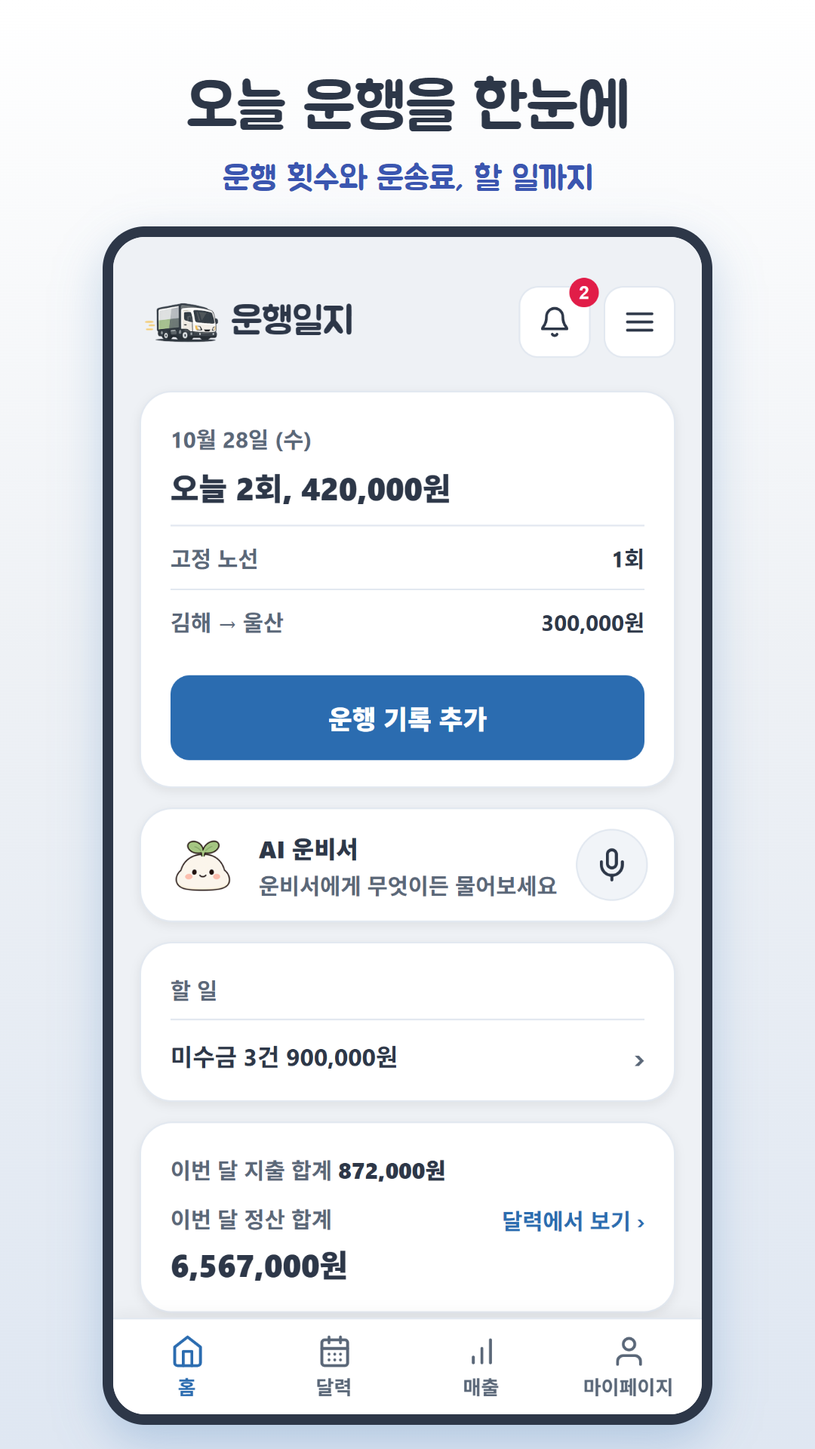
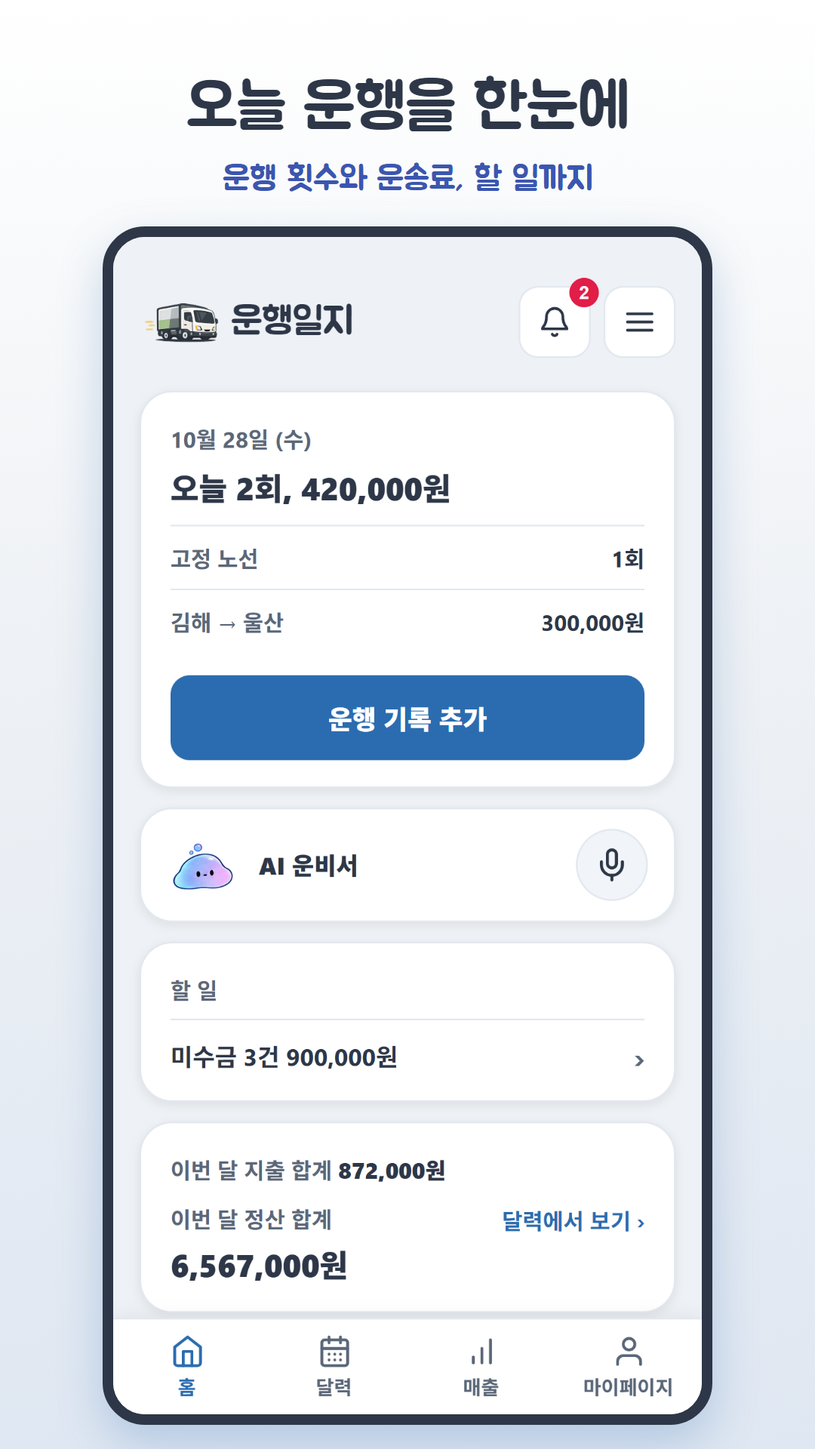
설정 "운비서" 하나로 홈 카드까지 끄기 완료 [x] — 착수지시서, 로드맵·STATUS 기록, 스토어 스크린샷 갱신

Changed region(s): [[0.2139, 0.5625, 0.6722, 0.625]]

diff --git a/docs/report.md b/docs/report.md
@@ -1,208 +1,68 @@
 # docs/report.md — 현재 슬라이스 착수지시서
 
-Capacitor C-13: drivelog-docs `3697e48`. Capacitor C-11: drivelog-docs `192d243`. Capacitor C-9·C-10: drivelog-docs `44e5fe4`. Capacitor C-8: drivelog-docs `c16db24`. Capacitor C-7: drivelog-docs `9445c8c`. Capacitor C-6: drivelog-docs `dc3e2a3`. Capacitor C-5: drivelog-docs `748c252`. Capacitor C-4: drivelog-docs `6b285d6`. Capacitor C-3-B: drivelog-docs `d8707c0`. Capacitor C-3-A: drivelog-docs `5cd80f0`. Capacitor C-2: drivelog-docs `056101f`. Capacitor C-1: drivelog-docs `d83dc32`. 운비서 그림: drivelog-docs `662f181`. 달력·매출 보던 달 기억: drivelog-docs `d7939c5`. 운비서 하루 횟수 B: drivelog-docs `4144794`. 운비서 하루 횟수 A: drivelog-docs `dd878a8`. 기사 차량 최대 3대 제한: drivelog-docs `3589174`. 운송료 부가세 줄 정리: drivelog-docs `4c419ae`. 연동·미연동 기사 안내: drivelog-docs `6379d80`. 운비서 카드 정리 B: drivelog-docs `4af30bc`. 운비서 카드 정리 A: drivelog-docs `855d2d8`. 말풍선 줄바꿈: drivelog-docs `7af5729`. 부가세 두 줄: drivelog-docs `10f1b7e`. 줄바꿈: drivelog-docs `a5b10a1`. 11-D-3: drivelog-docs `1e6591f`. 11-D-2: drivelog-docs `db31525`. 11-D-1: drivelog-docs `d719b80`. 11-B: drivelog-docs `a673fcc`. 11-C: drivelog-docs `d091df2`. 11-A: drivelog-docs `f112cca`. 41-B-2: drivelog-docs `86bde91`. 옛 이름 주석: drivelog-docs `75f2d98`. 41-B-1: drivelog-docs `c35b352`. 149-C-2: drivelog-docs `c269e0b`. 149-C-1: drivelog-docs `62251ca`. 149-B: drivelog-docs `0914214`. 149-A: drivelog-docs `38ce614`. 123-D: drivelog-docs `f47d26d`. 123-C: drivelog-docs `752a9d8`. 123-B: drivelog-docs `48208b9`. 123-A: drivelog-docs `74c5ef3`. 150-B: drivelog-docs `693140b`. 150-A: drivelog-docs `9b8eb01`. 106: drivelog-docs `72a93ed`. 124-B-2: drivelog-docs `abceece`. 124-B-1: drivelog-docs `5c354fd`. 124-A: drivelog-docs `022a710`. 121-B: drivelog-docs `0aa4357`. 긴 주석 줄이기: drivelog-docs `59ddc9d`. 121-A: drivelog-docs `1590ef7`. 120-D: drivelog-docs `2ce5170`. 120-C: drivelog-docs `ae914c9`. 120-B: drivelog-docs `503a3d3`. 120-A: drivelog-docs `81f927a`. 119: drivelog-docs `4ef51fa`. 147: drivelog-docs `db47a3b`. 내역서 산재 빼기: drivelog-docs `6531e7b`. 143: drivelog-docs `a4f4738`. 144: drivelog-docs `a87a1b4`. 146: drivelog-docs `207f26c`. 145: drivelog-docs `7bd1146`. 141: drivelog-docs `397513b`. 104: drivelog-docs `ec18974`. 142: drivelog-docs `84fa347`. 148: drivelog-docs `d5dec47`. 138-B: drivelog-docs `8b59d03`. 138-A: drivelog-docs `dd2c4a4`. 140: drivelog-docs `e861ea4`. 139: drivelog-docs `846327e`. 137: drivelog-docs `49613a4`. 136: drivelog-docs `e01b338`. 135-B: drivelog-docs `b15f2f8`. 135-A: drivelog-docs `56ca240`. 134: drivelog-docs `baee1ea`. 133: drivelog-docs `e049969`. 132-B: drivelog-docs `e3b7b60`. 132-A: drivelog-docs `0d32ec4`. 131-B: drivelog-docs `bac091a`. 131-A: drivelog-docs `448deb1`. 130: drivelog-docs `83e93be`. 129-B: drivelog-docs `fc2b077`. 129-A: drivelog-docs `867b653`. 128: drivelog-docs `9e32174`. 127: drivelog-docs `e743872`. 118: drivelog-docs `7cf86e3`. 116: drivelog-docs `8cade9e`. 115: drivelog-docs `6539d2d`. 122: drivelog-docs `48f420c`. 126: drivelog-docs `bfd19f7`. 117: drivelog-docs `8cbdca5`. 125: drivelog-docs `d48cac8`. 114: drivelog-docs `5f55ee1`. 34-C: drivelog-docs `11ea476`. 34-B: drivelog-docs `a54be26`. 34-A: drivelog-docs `58331f0`. 113-D: drivelog-docs `0bcb19a`. 113-C: drivelog-docs `afa3f5e`. 113-B: drivelog-docs `1c95e76`. 113-A: drivelog-docs `25069f9`. 운비서 버튼 설정: drivelog-docs `d65beaf`. 운비서·+ 버튼 겹침: drivelog-docs `6fe917d`. 로그인 화면 개편 B: drivelog-docs `ae6d734`. 로그인 화면 개편 A 수정: drivelog-docs `c712994`. 로그인 화면 개편 A: drivelog-docs `d5bc380`. 문구 정리 5-B: drivelog-docs `466871a`. 문구 정리 5-A: drivelog-docs `f4a3ee8`. UI 위계화 E-2: drivelog-docs `c03dba5`. UI 위계화 E-1: drivelog-docs `4b28cf6`. UI 위계화 D-1: drivelog-docs `acff677`. UI 위계화 C-2: drivelog-docs `182b8e4`. UI 위계화 C-1: drivelog-docs `c19c294`. UI 위계화 B: drivelog-docs `d43886f`. UI 위계화 A: drivelog-docs `ba4692a`. 112: drivelog-docs `bed3293`. 24-J-2: drivelog-docs `2659849`. 24-J-1: drivelog-docs `8e025d8`. 24-I-2: drivelog-docs `e79562a`. 24-I-1: drivelog-docs `cdeb64d`. 24-H-3: drivelog-docs `57ccb7e`. 24-H-2: drivelog-docs `9ffec36`. 24-H-1: drivelog-docs `09323b9`. 24-G-2: drivelog-docs `f606644`. 24-G-1: drivelog-docs `c0f52a6`. 24-D3: drivelog-docs `9dc244b`. 111: drivelog-docs `46dc63b`. 24-E2: drivelog-docs `db74acc`. 24-F-2: drivelog-docs `c23630f`. 24-F-1: drivelog-docs `8c1ddfb`. 24-E: drivelog-docs `f8c7a9a`. 110-B: drivelog-docs `acfa71b`. 110-A: drivelog-docs `b57e0b1`. 109-B: drivelog-docs `e200af2`. 109-A: drivelog-docs `a5b3d61`. 108번: drivelog-docs `6bfaa09`. 105번: 105-B drivelog-docs `705c4ac`, 105-A `aa5c8b9`. 24번(AI 비서) 지시서·기록: 24-D-2 drivelog-docs `44a068c`, 24-D-1 `ac195e4`, 24-C-2 `455cd19`, 24-C-1 `a26815e`, 24-A2 `2ea514e`, 24-B-3-B `0548640`, 24-B-3-A `a0f2b64`, 24-B-2 `c115e2b`, 24-B-1 `18646c9`, 24-A `1dde103`. 23번: 23-D `a6ee944`, 23-C `aedd08d`, 23-B `4e692ce`, 23-A `ac81245`.
+운비서 그림 움직이기: drivelog-docs `5e56504`. Capacitor C-13: drivelog-docs `3697e48`. Capacitor C-11: drivelog-docs `192d243`. Capacitor C-9·C-10: drivelog-docs `44e5fe4`. Capacitor C-8: drivelog-docs `c16db24`. Capacitor C-7: drivelog-docs `9445c8c`. Capacitor C-6: drivelog-docs `dc3e2a3`. Capacitor C-5: drivelog-docs `748c252`. Capacitor C-4: drivelog-docs `6b285d6`. Capacitor C-3-B: drivelog-docs `d8707c0`. Capacitor C-3-A: drivelog-docs `5cd80f0`. Capacitor C-2: drivelog-docs `056101f`. Capacitor C-1: drivelog-docs `d83dc32`. 운비서 그림: drivelog-docs `662f181`. 달력·매출 보던 달 기억: drivelog-docs `d7939c5`. 운비서 하루 횟수 B: drivelog-docs `4144794`. 운비서 하루 횟수 A: drivelog-docs `dd878a8`. 기사 차량 최대 3대 제한: drivelog-docs `3589174`. 운송료 부가세 줄 정리: drivelog-docs `4c419ae`. 연동·미연동 기사 안내: drivelog-docs `6379d80`. 운비서 카드 정리 B: drivelog-docs `4af30bc`. 운비서 카드 정리 A: drivelog-docs `855d2d8`. 말풍선 줄바꿈: drivelog-docs `7af5729`. 부가세 두 줄: drivelog-docs `10f1b7e`. 줄바꿈: drivelog-docs `a5b10a1`. 11-D-3: drivelog-docs `1e6591f`. 11-D-2: drivelog-docs `db31525`. 11-D-1: drivelog-docs `d719b80`. 11-B: drivelog-docs `a673fcc`. 11-C: drivelog-docs `d091df2`. 11-A: drivelog-docs `f112cca`. 41-B-2: drivelog-docs `86bde91`. 옛 이름 주석: drivelog-docs `75f2d98`. 41-B-1: drivelog-docs `c35b352`. 149-C-2: drivelog-docs `c269e0b`. 149-C-1: drivelog-docs `62251ca`. 149-B: drivelog-docs `0914214`. 149-A: drivelog-docs `38ce614`. 123-D: drivelog-docs `f47d26d`. 123-C: drivelog-docs `752a9d8`. 123-B: drivelog-docs `48208b9`. 123-A: drivelog-docs `74c5ef3`. 150-B: drivelog-docs `693140b`. 150-A: drivelog-docs `9b8eb01`. 106: drivelog-docs `72a93ed`. 124-B-2: drivelog-docs `abceece`. 124-B-1: drivelog-docs `5c354fd`. 124-A: drivelog-docs `022a710`. 121-B: drivelog-docs `0aa4357`. 긴 주석 줄이기: drivelog-docs `59ddc9d`. 121-A: drivelog-docs `1590ef7`. 120-D: drivelog-docs `2ce5170`. 120-C: drivelog-docs `ae914c9`. 120-B: drivelog-docs `503a3d3`. 120-A: drivelog-docs `81f927a`. 119: drivelog-docs `4ef51fa`. 147: drivelog-docs `db47a3b`. 내역서 산재 빼기: drivelog-docs `6531e7b`. 143: drivelog-docs `a4f4738`. 144: drivelog-docs `a87a1b4`. 146: drivelog-docs `207f26c`. 145: drivelog-docs `7bd1146`. 141: drivelog-docs `397513b`. 104: drivelog-docs `ec18974`. 142: drivelog-docs `84fa347`. 148: drivelog-docs `d5dec47`. 138-B: drivelog-docs `8b59d03`. 138-A: drivelog-docs `dd2c4a4`. 140: drivelog-docs `e861ea4`. 139: drivelog-docs `846327e`. 137: drivelog-docs `49613a4`. 136: drivelog-docs `e01b338`. 135-B: drivelog-docs `b15f2f8`. 135-A: drivelog-docs `56ca240`. 134: drivelog-docs `baee1ea`. 133: drivelog-docs `e049969`. 132-B: drivelog-docs `e3b7b60`. 132-A: drivelog-docs `0d32ec4`. 131-B: drivelog-docs `bac091a`. 131-A: drivelog-docs `448deb1`. 130: drivelog-docs `83e93be`. 129-B: drivelog-docs `fc2b077`. 129-A: drivelog-docs `867b653`. 128: drivelog-docs `9e32174`. 127: drivelog-docs `e743872`. 118: drivelog-docs `7cf86e3`. 116: drivelog-docs `8cade9e`. 115: drivelog-docs `6539d2d`. 122: drivelog-docs `48f420c`. 126: drivelog-docs `bfd19f7`. 117: drivelog-docs `8cbdca5`. 125: drivelog-docs `d48cac8`. 114: drivelog-docs `5f55ee1`. 34-C: drivelog-docs `11ea476`. 34-B: drivelog-docs `a54be26`. 34-A: drivelog-docs `58331f0`. 113-D: drivelog-docs `0bcb19a`. 113-C: drivelog-docs `afa3f5e`. 113-B: drivelog-docs `1c95e76`. 113-A: drivelog-docs `25069f9`. 운비서 버튼 설정: drivelog-docs `d65beaf`. 운비서·+ 버튼 겹침: drivelog-docs `6fe917d`. 로그인 화면 개편 B: drivelog-docs `ae6d734`. 로그인 화면 개편 A 수정: drivelog-docs `c712994`. 로그인 화면 개편 A: drivelog-docs `d5bc380`. 문구 정리 5-B: drivelog-docs `466871a`. 문구 정리 5-A: drivelog-docs `f4a3ee8`. UI 위계화 E-2: drivelog-docs `c03dba5`. UI 위계화 E-1: drivelog-docs `4b28cf6`. UI 위계화 D-1: drivelog-docs `acff677`. UI 위계화 C-2: drivelog-docs `182b8e4`. UI 위계화 C-1: drivelog-docs `c19c294`. UI 위계화 B: drivelog-docs `d43886f`. UI 위계화 A: drivelog-docs `ba4692a`. 112: drivelog-docs `bed3293`. 24-J-2: drivelog-docs `2659849`. 24-J-1: drivelog-docs `8e025d8`. 24-I-2: drivelog-docs `e79562a`. 24-I-1: drivelog-docs `cdeb64d`. 24-H-3: drivelog-docs `57ccb7e`. 24-H-2: drivelog-docs `9ffec36`. 24-H-1: drivelog-docs `09323b9`. 24-G-2: drivelog-docs `f606644`. 24-G-1: drivelog-docs `c0f52a6`. 24-D3: drivelog-docs `9dc244b`. 111: drivelog-docs `46dc63b`. 24-E2: drivelog-docs `db74acc`. 24-F-2: drivelog-docs `c23630f`. 24-F-1: drivelog-docs `8c1ddfb`. 24-E: drivelog-docs `f8c7a9a`. 110-B: drivelog-docs `acfa71b`. 110-A: drivelog-docs `b57e0b1`. 109-B: drivelog-docs `e200af2`. 109-A: drivelog-docs `a5b3d61`. 108번: drivelog-docs `6bfaa09`. 105번: 105-B drivelog-docs `705c4ac`, 105-A `aa5c8b9`. 24번(AI 비서) 지시서·기록: 24-D-2 drivelog-docs `44a068c`, 24-D-1 `ac195e4`, 24-C-2 `455cd19`, 24-C-1 `a26815e`, 24-A2 `2ea514e`, 24-B-3-B `0548640`, 24-B-3-A `a0f2b64`, 24-B-2 `c115e2b`, 24-B-1 `18646c9`, 24-A `1dde103`. 23번: 23-D `a6ee944`, 23-C `aedd08d`, 23-B `4e692ce`, 23-A `ac81245`.
 
 ---
 
 
-## 운비서 말할 때 움직이기 `[x]`
+## 설정 "운비서" 하나로 홈 카드까지 끄기 `[x]`
 
-보리 요청: `[확인: 2026-11-07 보리 — 시안 "캐디"(캐릭터 디자인) 1.png·3.png, "1번은 너무 정적", "모션중에 6가지 그거만 말할때마다 반복", "사라짐은 사용하지말구", 고르기 "1,좋아 2,가 3.글로 답할 때도 한두 번만 움직이기"]`. 앞 슬라이스 "운비서 그림 바꾸기"(drivelog-docs `662f181`)의 병아리를 새 젤리 캐릭터로 바꾼다. 이름 "운비서"는 그대로.
+보리 요청(2026-11-07): 앱 설정의 "운비서 버튼" 이름을 "운비서"로 바꾸고, 끄면 홈 화면의 운비서 카드까지 전부 꺼지게. 앞 작업 "운비서 버튼 설정"(drivelog-docs `d65beaf`)을 넓히는 것.
 
 ### 쉬운 요약
-- 운비서 그림을 시안의 젤리 캐릭터로 바꾸고, 운비서가 소리 내 말하는 동안 짧은 동작을 반복한다. 글로만 답할 때는 두 번만 움직이고 멈춘다.
-- 동작은 6가지(숨쉬기·깜빡임·웃음·움직임 가·움직임 나·별)를 말할 때마다 하나씩 차례로 쓴다. 찡그림·사라짐 줄은 쓰지 않는다.
-- 쉴 때는 멈춘 그림 한 장. 휴대폰에서 "움직임 줄이기"를 켠 사람에게는 움직이지 않는다.
+- 설정의 스위치 이름을 "운비서"로 바꾼다.
+- 이 스위치를 끄면 다른 화면의 떠 있는 운비서 버튼뿐 아니라 홈 화면의 "AI 운비서" 카드도 사라진다. 다시 켜면 둘 다 돌아온다.
+- 예전에 꺼 둔 사람은 그대로 꺼진 상태로 이어진다(저장 이름을 그대로 쓰므로).
 
 ### 현재 상태 (코드 확인)
-- 그림 `public/images/assistant_unbiseo.png` 한 장, 쓰는 곳 3군데: 홈 카드 `HomeAssistantBar.jsx:28`, 떠 있는 버튼 `UnbiseoDock.tsx:50`, 펼친 카드 `UnbiseoDock.tsx:61`(grep `assistant_unbiseo`).
-- 말하는 중인지는 이미 있음: `useSpeechOutput.ts`의 `speaking` → `useUnbiseoAssistant.ts:174`에서 `assistant.speaking`으로 나옴. 소리로 답하는 건 마이크로 물었을 때만(`useUnbiseoAssistant.ts:135`), 되묻기 질문도 소리로(`:85`).
-- 답은 `assistant.answer`, 기다리는 동안 `busy`가 참이고 "알아듣는 중…" 같은 임시 답이 들어감(`:101-109`).
-- 시험 `HomePage.test.js:380`이 홈 카드에 `assistant_unbiseo.png` 그림이 있는지 확인.
-- 시안 3.png(1536×1024): 8줄×8칸이지만 칸 위치가 고르지 않음(칸 사이 빈 줄을 재서 자름 — 세로 8칸·가로 8칸 모두 빈 틈으로 나뉨 확인). 몸은 살짝 비치는 젤리, 배경 투명.
+- 설정 스위치 글자는 "운비서 버튼", 로그인 계정의 메인 설정에만 보인다 — `AppSettingsPage.jsx:99-107`(`!logId && ownerKey !== 'guest'`).
+- 떠 있는 버튼은 끄면 이미 사라지고, 열린 카드를 접고 듣기도 멈춘다 — `UnbiseoDock.tsx:17-24`.
+- 홈 카드(`HomeAssistantBar.jsx`, `HomePage.jsx:77`)는 이 설정을 보지 않아 꺼도 그대로 보인다.
+- 저장 칸 설명이 "홈이 아닌 화면의 운비서 버튼"으로 되어 있다 — `financeTypes.ts:89`.
 
 ### 목표 상태 (기대 동작)
-1. 쉴 때는 1번 줄(숨쉬기) 첫 칸 그림이 3군데 모두에 보인다.
-2. 소리 내 말하기가 시작되면 6가지 중 다음 차례 동작을 그 말이 끝날 때까지 반복하고, 끝나면 멈춘 그림으로 돌아온다.
-3. 글로만 답이 오면(기다림이 끝나고 답이 바뀌면) 다음 차례 동작을 두 번 하고 멈춘다. 기다리는 중("알아듣는 중…")에는 움직이지 않는다.
-4. 차례는 1 숨쉬기 → 2 깜빡임 → 3 웃음 → 4 움직임 가 → 5 움직임 나 → 7 별 → 다시 1. 화면을 옮겨도 이어서 센다(앱을 다시 열면 처음부터).
-5. 한 동작은 8칸, 한 바퀴 약 0.8초.
-6. "움직임 줄이기"를 켠 휴대폰·컴퓨터에서는 늘 멈춘 그림.
-7. 밝은·어두운 화면 모두 테두리가 보인다.
+1. 앱 설정 스위치 글자가 "운비서"다(스위치 자리·처음 켜짐·저장 이름 `unbiseoDockOn`은 그대로).
+2. 로그인 계정에서 끄면 홈 화면의 "AI 운비서" 카드가 보이지 않는다. 홈의 나머지 카드(오늘·할 일·이번 달) 순서는 그대로다.
+3. 카드가 듣는 중에 꺼지면 듣기를 멈춘다(떠 있는 버튼과 같은 처리).
+4. 다시 켜면 홈 카드가 접힌 상태로 다시 보인다.
+5. 떠 있는 버튼의 동작은 지금과 같다.
+6. 비회원(guest)은 스위치가 없으므로 홈 카드가 지금처럼 보이고 "로그인하면 쓸 수 있습니다." 안내가 그대로다.
 
 ### 건드릴 파일
-- `public/images/assistant_unbiseo.png` — 멈춘 그림(1번 줄 첫 칸)으로 바꿈, 이름 그대로.
-- `public/images/unbiseo-motion-1.webp` … `-6.webp` 새로 6개 — 동작마다 8칸을 가로로 이어 붙인 그림. 칸은 아래 가운데에 맞춰 같은 크기로 자름. 자르는 것은 한 번만 하는 작업이라 스크립트는 저장소에 넣지 않음.
-- `src/features/home/ui/UnbiseoAvatar.tsx` 새로 — 멈춘 그림(`img`) 또는 움직이는 그림을 그리는 작은 부품.
-- `src/features/home/hooks/useUnbiseoMotion.ts` 새로 — `speaking`·`answer`·`busy`를 보고 지금 동작 번호와 횟수(계속/두 번)를 정함. 차례 수는 파일 안 변수 하나.
-- `src/features/home/ui/unbiseo-avatar.css` 새로 — 8칸 넘기기, 움직임 줄이기 설정이면 끔.
-- `HomeAssistantBar.jsx`·`UnbiseoDock.tsx` — `img` 3군데를 `UnbiseoAvatar`로.
-- 시험 `useUnbiseoMotion.test.js` 새로.
-- 주석 최종 문구:
-  - `UnbiseoAvatar.tsx` 첫 줄: `// 운비서 그림 — 쉴 때는 멈춘 그림, 말하는 동안은 동작 그림을 넘긴다.`
-  - `useUnbiseoMotion.ts` 첫 줄: `// 운비서 동작 고르기 — 소리 내 말하는 동안은 반복, 글로만 답하면 두 번. 동작은 차례로 바꾼다.`
-  - css: `/* 움직임 줄이기를 켠 기기에서는 멈춘 그림만. */`
+- `react-app/src/features/settings/ui/AppSettingsPage.jsx` — 스위치 글자 "운비서 버튼" → "운비서".
+- `react-app/src/features/home/ui/HomeAssistantBar.jsx` — 계정 설정을 읽어, 로그인 계정에서 꺼져 있으면 그리지 않고 듣기를 멈춤.
+  - 넣을 주석: `// 설정에서 운비서를 끄면 홈 카드도 그리지 않는다 — 듣던 중이면 멈춘다. 비회원은 끌 수 없어 늘 보인다.`
+- `react-app/src/domain/financeTypes.ts` — 설명 주석을 `// 운비서 켜기(홈 카드와 다른 화면의 버튼, 기본 켜짐)`로.
+- `react-app/src/features/settings/ui/AppSettingsPage.unbiseoDock.test.js` — 첫 줄 설명과 글자 확인을 "운비서"로.
+- `react-app/src/features/home/ui/HomePage.test.js` — 새 테스트: 로그인 계정에서 끄면 운비서 카드가 없고 나머지 카드 순서는 그대로, 켜면 다시 보임.
 
 ### 안 건드릴 것
-- 운비서가 알아듣고 답하는 방식·목소리(`useUnbiseoAssistant.ts`·`useSpeechOutput.ts`) — 값만 읽음.
-- 이름 "AI 운비서", 카드 모양·크기, 떠 있는 버튼 위치.
-- 사라짐(8번 줄)·찡그림(6번 줄) 그림 — 쓰지 않음.
-- 서비스 워커 `public/sw.js` — 그림을 저장해 두지 않아 그대로(앞 슬라이스와 같음).
+- `UnbiseoDock.tsx` — 이미 끄면 사라짐(`src/app/shell/UnbiseoDock.test.js:136` 테스트 통과 중).
+- 저장 이름 `unbiseoDockOn`, 기본값(`practiceSettings.ts:41,88`), 저장 형식 검사(`persistDomainSchema.ts:47`) — 이름을 바꾸면 꺼 둔 사람 값이 사라지므로 그대로.
+- 기사 차량 일지 설정 화면 — 지금도 스위치가 없다(`AppSettingsPage.unbiseoDock.test.js`의 숨김 테스트).
+- 코드 안 다른 "운비서 버튼" 주석(`assistantCallState.js:119` 등) — 떠 있는 버튼이나 카드 안 버튼을 가리키는 말이라 맞다.
 
 ### 검증
-- 새 시험: 쉴 때 멈춘 그림, `speaking`이 참이면 첫 동작·계속 반복, 끝나면 멈춘 그림, 글 답이 오면 다음 동작·두 번, 기다리는 중에는 안 움직임, 차례가 1·2·3·4·5·7로 돌아감.
-- revert-check, `npm test`·lint·typecheck·build, CI 초록.
-- 브라우저(개발 서버)에서 글로 물어 두 번 움직이는 것, 밝은·어두운 화면 확인. 칸을 맞춰 잘라도 시안 칸마다 위치가 조금씩 달라 떨려 보이면 보고 전에 다시 맞추고, 그래도 떨리면 그 동작을 빼는 안으로 보리에게 물음.
+- `npm test`, `npm run lint`, `npm run typecheck`, `npm run build` 모두 통과.
+- 새 홈 테스트는 고치기 전 코드에서 실패하는지 되돌려 확인(revert-check).
+- 브라우저: 로그인 상태로 설정에서 끄고 홈·다른 화면 둘 다 운비서가 없는지, 켜고 둘 다 돌아오는지 본다.
 
 ### 파일 길이
-- `HomeAssistantBar.jsx` 53 → 약 53, `UnbiseoDock.tsx` 89 → 약 89.
-- 새 `UnbiseoAvatar.tsx` 약 30, `useUnbiseoMotion.ts` 약 50, `unbiseo-avatar.css` 약 40, 시험 약 100.
-- 그림: 멈춘 그림 1장, 동작 6장(웹피, 합쳐 약 200KB 안쪽 목표).
+- `AppSettingsPage.jsx` 182 → 182줄.
+- `HomeAssistantBar.jsx` 51 → 약 62줄.
+- `financeTypes.ts` 줄 수 그대로.
+- `AppSettingsPage.unbiseoDock.test.js` 63 → 63줄.
+- `HomePage.test.js` 395 → 약 420줄(테스트 파일, 기존에도 200줄 넘음 — 테스트 파일은 제한 밖).
 
 ### 실패 시 처리
-- 새 저장 장치·재시도·대비 장치 없음(그림 표시만 바꿈). 동작 그림을 못 불러오면 브라우저가 빈칸으로 두는 대신 멈춘 그림이 아래에 깔려 보이게 함. 안 되면 수정 착수지시서.
+- 새 저장 장치·재시도·대비 장치를 만들지 않는다. 검사가 실패하면 원인을 적고 수정 계획을 다시 써서 승인받는다.
 
 ### 사용자 확인 방법
-- push·배포 뒤 휴대폰 앱(앱 파일 그대로)에서 홈 → 운비서 카드가 젤리 그림인지 본다.
-- 글로 "오늘 매출" 물어보기 → 답이 나올 때 그림이 두 번 움직이고 멈추면 성공.
-- 마이크로 물어보기 → 답을 읽는 동안 계속 움직이고, 다 읽으면 멈추면 성공. 한 번 더 물으면 다른 동작이면 성공.
-- 다른 화면의 떠 있는 운비서 버튼도 젤리 그림인지 본다.
+1. 앱(또는 getdrivelog.com)에 로그인 → 메뉴 → 앱 설정을 연다. 스위치 이름이 "운비서"인지 본다.
+2. 스위치를 끄고 홈으로 간다. "AI 운비서" 카드가 없으면 성공. 다른 화면(달력 등)에도 떠 있는 운비서가 없어야 한다.
+3. 다시 설정에서 켜고 홈으로 간다. 카드가 접힌 상태로 다시 보이면 성공.
 
 ### 진행 기록
-- 2026-11-07 착수 승인. react-app `a99210c`. 시험 2,001개(새 시험 5개)·lint·typecheck·build 통과. 새 시험은 새로 만든 파일을 시험하므로 고치기 전 코드에서는 실행 자체가 안 됨(revert-check 생략).
-- 지시서와 다른 점:
-  - 동작 그림이 아직 안 받아졌을 때 빈칸이 보이지 않게, 처음 그릴 때 6장을 미리 받아 둠. 못 받으면 멈춘 그림으로 돌아감.
-  - 움직이는 동안은 멈춘 그림을 감춤. 젤리가 비쳐서 두 장이 겹쳐 보이기 때문.
-  - 검사 도구가 "효과 안에서 상태 바꾸기"를 막아, 그리는 중에 동작을 정하고 센 수는 그린 뒤에 올림.
-- 그림: 시안 3.png의 칸 사이 빈 틈을 재서 자르고, 칸마다 몸 아래 가운데에 맞춤. 한 칸 120×96, 동작 6장 합쳐 약 197KB, 멈춘 그림 13KB.
-- 브라우저(개발 서버, 비회원 홈): 멈춘 그림이 홈 카드에 보임. 동작 6줄×8칸을 칸마다 멈춰 확대해 보니 칸이 정확히 넘어가고 떨림이 거의 없음. 밝은·어두운 화면 모두 테두리가 보임. 실제로 말할 때 움직이는 것은 로그인이 필요해 휴대폰에서 확인.
-- push(보리) 뒤 CI db-test·verify·deploy 초록(run 42341169108).
-- 보리 의견: 1번 동작(숨쉬기)의 첫째·둘째 칸 캐릭터가 마음에 안 듦 — 휴대폰에서 보고 결정.
-- 남은 것: 휴대폰 확인, 1번 동작 첫째·둘째 칸 처리 결정, 최종 `[x]`.
-
-### 수정 1 — 듣는 중·입력 중 동작, 동작 정리 `[~]` (수정 2로 바뀜)
-
-보리 요청(push 뒤 휴대폰 확인): `[확인: 2026-11-07 보리 — "사용자가 말하는중에 듣고잇을떄도 모션이없어 그걸 unbiseo-motion-2.webp이걸로", "unbiseo-motion-1.webp버리고", "unbiseo-motion-2.webp이걸 가만히잇을때 이거첫번째캐릭터로", "입력할때모션은 unbiseo-motion-5.webp", "unbiseo-motion-6.webp 이것도 버려", "픽셀단위로 위치좀 조정해 좀더 위로 하고 살짝 더 크기 키워", 입력 멈춤 "치기를 멈추고 1초가 지나면 멈추게 잡아"]`. 웹에서 안 바뀌어 보인 것은 사이트가 파일을 10분 동안 그대로 쓰게 하는 설정 때문(서버 파일은 새것 확인).
-
-#### 쉬운 요약
-- 운비서가 듣는 동안(사용자가 말하는 중) 깜빡임(2번)을 반복하고, 글 칸에 입력하는 동안 움직임 나(5번)를 반복한다.
-- 숨쉬기(1번)·별(6번)은 버리고, 쉴 때 그림은 깜빡임의 첫 칸으로 바꾼다.
-- 운비서가 말할 때·글로 답할 때는 남은 웃음(3번)·움직임 가(4번)를 차례로 쓴다.
-- 그림을 조금 키우고 위로 올린다.
-
-#### 현재 상태 (코드 확인)
-- `useUnbiseoMotion.ts`(42줄)는 `speaking`·`answer`·`busy`만 봄. 듣는 중(`speech.listening`, `useSpeechInput.ts:39`)과 입력(`assistant.text`, `HomeAssistantPanel.tsx:75-77`)은 보지 않음.
-- 마이크로 들은 말도 `setText(heard)` 뒤 바로 보내서 `busy`가 같이 참이 됨(`useUnbiseoAssistant.ts:73-76`·`:100`) — 입력으로 치지 않게 가를 수 있음.
-- 그림 파일 이름이 같으면 브라우저가 10분 동안 예전 그림을 씀(getdrivelog.com `Cache-Control: max-age=600` 확인).
-
-#### 목표 상태 (기대 동작)
-1. 쉴 때: 깜빡임 첫 칸 그림.
-2. 듣는 동안: 깜빡임을 계속 반복, 듣기가 끝나면 멈춤.
-3. 글 칸에 입력하는 동안: 움직임 나를 반복, 마지막 글자를 친 뒤 1초가 지나면 멈춤. 칸을 비우거나 보내면 멈춤. 마이크로 들은 말이 칸에 들어가는 것은 입력으로 치지 않음.
-4. 운비서가 소리 내 말하는 동안: 웃음·움직임 가를 차례로 하나 골라 반복(지금과 같은 방식).
-5. 글로만 답이 오면: 같은 차례의 다음 동작을 두 번.
-6. 우선순위: 운비서 말하기 > 듣기 > 입력.
-7. 숨쉬기·별 그림은 쓰지 않고 파일도 지움.
-8. 그림 파일 이름을 새로 지어 배포 즉시 새 그림이 보이게 함.
-9. 크기·위치: 홈 카드·펼친 카드 그림 폭 44px → 52px, 3px 위로. 떠 있는 버튼(52px 동그라미) 안 그림 폭 40px → 46px, 2px 위로. 카드 줄 높이(56px)는 그대로.
-
-#### 건드릴 파일
-- `public/images/` — `assistant_unbiseo.png`·`unbiseo-motion-1~6.webp` 지우고, 새 이름으로: `unbiseo-still.png`(깜빡임 첫 칸), `unbiseo-blink.webp`(2번), `unbiseo-smile.webp`(3번), `unbiseo-move-a.webp`(4번), `unbiseo-move-b.webp`(5번). 그림 내용은 지금 파일 그대로.
-- `useUnbiseoMotion.ts` — 듣기·입력 보기, 동작 이름으로 고르기, 입력 멈춤 1초.
-- `UnbiseoAvatar.tsx` — 그림 이름, `assistant`에서 `listening`·`text`도 넘김.
-- `HomeAssistantBar.jsx`·`UnbiseoDock.tsx` — 넘기는 값만(필요하면).
-- `home-assistant.css` `.home-assistant-avatar`(29-41줄)·`unbiseo-dock.css` `.unbiseo-dock-fab img`(52-56줄) — 크기·위로 올리기. 이 이름들은 운비서 그림 자리에서만 씀(홈 카드·펼친 카드·떠 있는 버튼).
-- `useUnbiseoMotion.test.js` — 시험 고침·추가. `HomePage.test.js:380` — 그림 이름 확인을 새 이름으로.
-
-#### 안 건드릴 것
-- 운비서 알아듣기·목소리·글 칸 동작. CSS 넘기기 방식(`unbiseo-avatar.css`).
-
-#### 검증
-- 새 시험: 듣는 중 깜빡임 반복, 입력 중 움직임 나·1초 뒤 멈춤, 들은 말은 입력으로 안 침, 말하기 차례 웃음 → 움직임 가 → 웃음, 우선순위. revert-check(고치기 전 코드에서 새 시험 실패), 전체 시험·lint·typecheck·build, CI 초록.
-
-#### 파일 길이
-- `useUnbiseoMotion.ts` 42 → 약 70, `UnbiseoAvatar.tsx` 40 → 약 42, 시험 100 → 약 150.
-
-#### 실패 시 처리
-- 새 장치 없음(그림 고르는 규칙만). 안 되면 수정 2 착수지시서.
-
-#### 사용자 확인 방법
-- 배포 뒤 휴대폰 앱 다시 열기 → 쉴 때 깜빡임 첫 칸 그림.
-- 마이크 누르고 말하는 동안 깜빡임, 글 칸에 치는 동안 움직임 나, 치기를 멈추면 1초 뒤 멈춤.
-- 운비서가 답을 읽을 때 웃음 또는 움직임 가, 다음 질문에는 다른 쪽.
-
-#### 수정 1 진행 기록
-- 2026-11-07 착수 승인(말할 때 동작은 "가" — 웃음·움직임 가만). react-app `659c976`.
-- 시험: 새로 쓴 9개 중 8개가 고치기 전 코드에서 실패(revert-check), 1개(들은 말은 입력 아님)는 예전에도 맞는 동작. 전체 2,005개·lint·typecheck·build 통과.
-- 브라우저(비회원 홈): 쉴 때 그림 `unbiseo-still.png`, 그림 52×42px, 줄 가운데보다 3px 위, 이름 글자 위치 그대로.
-- push(보리) 뒤 CI db-test·verify·deploy 초록(run 42343362355).
-- 보리 휴대폰 확인: "움직임이 너무 빠르구 부드럽지않고 자연스럽지도않아", 거품이 생겼다 사라지지 않음. 원인은 시안 칸마다 따로 그린 그림(몸 모양·거품이 칸마다 다름). 앱 코드는 안 건드리고 시험용 화면(몸 한 장을 말랑하게 움직이고 거품을 따로 띄움)을 만들어 보여 줌 — 보고 결정.
-- 시험용 화면에 밀대·그림 넣기·GIF 변환기를 달아 줌. 보리가 상황별 그림(캐디 폴더 쉴때·듣는중·입력중·답하는중)과 값을 정해 보냄 → 수정 2.
-
-### 수정 2 — 상황별 연속 그림으로 바꾸기 `[x]`
-
-보리 요청: `[확인: 2026-11-07 보리 — 수정 1 휴대폰 확인 "움직임이 너무 빠르구 부드럽지않고 자연스럽지도않아", 시험 화면에서 상황별 그림·값을 직접 정함, "폴더 정리해놧어", 값 복사 붙여넣기]`. 시험 화면: https://claude.ai/artifact/466W4rBuRzxw18CniXmZ7y (앱 밖, 보리 확인용).
-
-#### 쉬운 요약
-- 상황마다 보리가 고른 연속 그림을 그대로 넘긴다: 쉴 때·듣는 중·입력 중·답하는 중. 쉴 때도 천천히 움직인다.
-- 빠르기·칸 사이 부드럽게(겹쳐 넘기기)·그림 크기·위치는 보리가 시험 화면에서 정한 값 그대로.
-- 지금의 깜빡임·웃음·움직임 가·나 그림과 "말할 때마다 번갈아" 규칙은 없앤다.
-
-#### 현재 상태 (코드 확인)
-- `useUnbiseoMotion.ts`(64줄): 말하기 > 듣기 > 글 답 두 번 > 입력 순으로 동작 이름을 고름, 말할 때 웃음·움직임 가 번갈아.
-- `UnbiseoAvatar.tsx`(46줄)·`unbiseo-avatar.css`: 8칸 그림 줄을 CSS `steps(8)`로 0.8초에 넘김(칸 수·빠르기 고정, 겹쳐 넘기기 없음).
-- 크기: 카드 52px·3px 위로(`home-assistant.css`), 떠 있는 버튼 46px·2px 위로(`unbiseo-dock.css`).
-- 보리 그림: `캐디\쉴때` 21장, `듣는중` 58장, `입력중` 26장, `답하는중` 46장(모두 391×245, 배경 투명, 얼굴·몸이 그림에 들어 있음, 거품 없음).
-
-#### 목표 상태 (기대 동작)
-1. 상황 고르기는 지금과 같다: 운비서가 소리 내 말하는 동안 → 답하는 중, 듣는 동안 → 듣는 중, 글로만 답이 오면 → 답하는 중 두 바퀴, 글자를 치는 동안(멈추고 1초 뒤 끝) → 입력 중, 그 밖 → 쉴 때. 우선순위 말하기 > 듣기 > 글 답 > 입력 > 쉴 때.
-2. 상황별 그림·값(보리 값 그대로):
-   - 쉴 때: 21칸, 한 바퀴 1.9초, 칸 사이 겹침 85%, 계속 되풀이.
-   - 듣는 중: 58칸, 2초, 겹침 0%(툭툭 넘김).
-   - 입력 중: 26칸, 1초, 겹침 65%.
-   - 답하는 중: 46칸, 1.1초, 겹침 70%.
-3. 겹침: 다음 칸을 위에 겹쳐 서서히 띄우는 시간 = 한 칸 시간 × 겹침 %(시험 화면과 같은 방식).
-4. 상황이 바뀌면 새 상황 그림의 첫 칸부터.
-5. 크기: 홈 카드·펼친 카드 그림 폭 53px·3px 위로, 떠 있는 버튼 45px·1px 위로.
-6. 거품 없음(보리 값에서 네 상황 모두 거품 간격 0). 깜빡임·웃는 얼굴 바꾸기 없음(얼굴은 그림대로).
-7. "움직임 줄이기"를 켠 기기: 쉴 때 첫 칸 그림만.
-8. 칸 맞춤은 시험 화면과 같은 방식(칸마다 몸 아래 가운데, 10:7 틀).
-
-#### 건드릴 파일
-- `public/images/` — 지움: `unbiseo-still.png`·`unbiseo-blink/smile/move-a/move-b.webp`. 새로: `unbiseo-rest.webp`·`unbiseo-listen.webp`·`unbiseo-type.webp`·`unbiseo-talk.webp`(칸을 옆으로 이은 그림 줄, 한 칸 160×112), `unbiseo-rest-still.png`(쉴 때 첫 칸). 합쳐 약 550KB(쉴 때 82KB는 처음에, 나머지는 미리 받아 둠).
-- `useUnbiseoMotion.ts` — 상황 이름(rest·listen·type·talk)과 횟수만 돌려줌, 번갈아 규칙 삭제.
-- `useFramePlayer.ts` 새로 — 칸 수·한 바퀴 시간·겹침을 받아 두 겹을 번갈아 넘김, 두 바퀴 끝나면 알림. 화면 다시 그리기 없이 그림 위치만 바꿈.
-- `UnbiseoAvatar.tsx`·`unbiseo-avatar.css` — 상황별 그림 표, 두 겹 그림.
-- `home-assistant.css`·`unbiseo-dock.css` — 크기·위치 숫자.
-- `HomeAssistantBar.jsx`·`UnbiseoDock.tsx` — 넘기는 크기 숫자.
-- 시험: `useUnbiseoMotion.test.js` 고침, `useFramePlayer.test.js` 새로, `HomePage.test.js:380` 멈춘 그림 이름.
-- 주석 최종 문구:
-  - `useFramePlayer.ts` 첫 줄: `// 그림 줄 넘기기 — 다음 칸을 위 겹에 서서히 띄운 뒤 아래 겹을 맞춘다.`
-  - `useUnbiseoMotion.ts` 첫 줄: `// 운비서 상황 고르기 — 말하기 > 듣기 > 글 답(두 바퀴) > 입력 > 쉴 때.`
-
-#### 안 건드릴 것
-- 운비서 알아듣기·목소리·글 칸. 시험 화면(앱 밖)은 그대로 둠.
-
-#### 검증
-- 새 시험: 상황 고르기·우선순위, 글 답 두 바퀴 뒤 쉴 때로, 입력 1초, 칸 넘김 시간·겹침 시간, 두 바퀴 끝 알림. revert-check, 전체 시험·lint·typecheck·build, CI 초록.
-- 브라우저(개발 서버, 비회원 홈): 쉴 때 움직임, 크기·위치, 밝은·어두운 화면.
-
-#### 파일 길이
-- `useUnbiseoMotion.ts` 64 → 약 50, 새 `useFramePlayer.ts` 약 70, `UnbiseoAvatar.tsx` 46 → 약 55, css 약 30, 시험 148 → 약 150 + 새 시험 약 80.
-
-#### 실패 시 처리
-- 새 장치 없음(그림 보여 주기만). 그림을 못 받으면 멈춘 그림. 안 되면 수정 3 착수지시서.
-
-#### 사용자 확인 방법
-- 배포 뒤 앱 다시 열기 → 홈 운비서가 쉴 때 그림으로 천천히 움직임.
-- 마이크로 말하는 동안 듣는 중 그림, 글자 치는 동안 입력 중 그림, 답을 읽는 동안 답하는 중 그림, 글로만 답하면 두 바퀴 뒤 쉴 때로.
-- 시험 화면과 같은 느낌인지, 크기·위치가 맞는지.
-
-#### 수정 2 진행 기록
-- 2026-11-07 착수 승인(거품 없음·쉴 때도 움직임·통통 뛰기 빼기 확인). 보리 지시로 커밋·push까지 AI가 함(`[확인: 2026-11-07 보리 — "이번거 작업하면 커밋과 푸시까지 바로 진행해줘"]`, 이번 슬라이스만).
-- react-app `591b344`. 그림 줄 4개(한 칸 160×112, 웹피) 합쳐 약 540KB, 쉴 때 첫 칸 `unbiseo-rest-still.png`.
-- 지시서와 다른 점: 글 답 두 바퀴를 같은 번호로 다시 틀지 않게 답마다 번호를 새로 붙임(시험에서 찾음).
-- 시험: 새 시험 12개(상황 고르기 7·그림 넘기기 5), 상황 고르기 7개 모두 고치기 전 코드에서 실패(revert-check). 전체 2,008개·lint·typecheck·build 통과.
-- 브라우저(비회원 홈): 쉴 때 그림이 21칸으로 넘어감, 그림 53×37px.
-- push 뒤 CI db-test·verify·deploy 초록(run 42356650409).
-- 2026-11-07 보리 최종 승인("승인처리하고").
+- react-app `8c69234` 커밋. 테스트 2,009개·lint·typecheck·build 통과. 새 테스트 2개는 고치기 전 코드에서 실패 확인.
+- push 뒤 CI db-test·verify·deploy 초록(run 42359779231).
+- 보리 화면 확인·최종 승인(2026-11-07). 문서 커밋에 스토어 스크린샷 4개도 같이 넣음(보리 지시).

diff --git a/STATUS.md b/STATUS.md
@@ -8,7 +8,7 @@
 > `AGENTS.md` §0-2). 지난 내용은 `git log -p -- docs/report.md` 또는 아래
 > 커밋 해시로 `git show`.
 > 이 파일이 150줄을 넘으면 오래된 "완료" 항목을 요약만 남기고 줄인다.
-> 최종 갱신: 2026-11-07 (**운비서 그림 움직이기** `[x]` — react-app `591b344`. 다음은 설정의 운비서 버튼 이름·끄기 범위.)
+> 최종 갱신: 2026-11-07 (**설정 "운비서" 하나로 홈 카드까지 끄기** `[x]` — react-app `8c69234`. 다음은 C-12 지원 기기 되살리기.)
 > 2026-11-02 줄임(보리 지시): 줄이기 전 전체 내용은 `git show 1590ef7:STATUS.md`.
 
 ---
@@ -29,7 +29,7 @@
 
 ## 지금 하는 일
 
-- 다음: 설정의 운비서 버튼 이름을 "운비서"로, 끄면 홈 운비서 카드까지 끄기(착수지시서 전). 그다음 C-12 지원 기기 되살리기. 앱 업데이트는 주 1회 묶어 올림(2026-11-07 보리) — 다음 묶음에 v5 1.0.4(`C:\dev\drivelog-keys\v5\`, `mapping.txt` 함께). 1.0.3은 게시됨. 2026-11-13에 처리방침 시행일 바꾸고 예고 상자 빼기.
+- 다음: C-12 지원 기기 되살리기(착수지시서 전). 앱 업데이트는 주 1회 묶어 올림(2026-11-07 보리) — 다음 묶음에 v5 1.0.4(`C:\dev\drivelog-keys\v5\`, `mapping.txt` 함께). 1.0.3은 게시됨. 2026-11-13에 처리방침 시행일 바꾸고 예고 상자 빼기.
 
 ## 다음 할 일
 
@@ -40,6 +40,7 @@
 
 최근 것(새 것이 위):
 
+- 설정 "운비서" 하나로 홈 카드까지 끄기 — react-app `8c69234`(CI 초록·배포), 설정 스위치 이름 "운비서 버튼" → "운비서", 끄면 다른 화면 버튼과 홈 운비서 카드 모두 숨김(듣던 중이면 멈춤, 다시 켜면 접힌 채), 저장 이름 `unbiseoDockOn` 그대로, 비회원은 늘 보임, 보리 화면 확인(2026-11-07).
 - 운비서 그림 움직이기 — react-app `a99210c`·수정 1 `659c976`·수정 2 `591b344`(CI 초록·배포), 병아리 → 젤리 캐릭터, 상황(쉴 때 21칸·듣는 중 58칸·입력 중 26칸·답하는 중 46칸)마다 그림 줄을 겹쳐 넘김, 값은 앱 밖 시험 화면에서 보리가 정함, 수정 2는 보리 지시로 AI가 push(2026-11-07).
 - Capacitor 전환 C-13 앱을 다시 깔면 같은 이름 파일 저장 실패 — react-app `ab555f3`(CI 초록·배포), `saveFileToDevice`가 덮어쓰기가 막히면 `이름 (2)`~`(5)`로 새로 저장, 보리 휴대폰 PDF 저장 확인(2026-11-07). 저장소 이름 `drivelog-app`으로 바뀜(폴더는 `react-app` 그대로).
 - Capacitor 전환 C-11 앱 파일 코드 줄이기 — react-app `451d995`(CI 초록·배포), 플레이 경고 "DEX 코드 최적화 기준점 미만(난독화 1%)" 대응으로 `build.gradle` release에 코드·그림 줄이기 켬, 1.0.4(코드 5) v5 `.aab`·`.apk`·`mapping.txt`(apk 8.0→4.7MB), 남기기 규칙 없이 플러그인 10개 그대로. 보리 휴대폰 확인(2026-11-07), 플레이 올리기는 주 1회 묶음 때.
